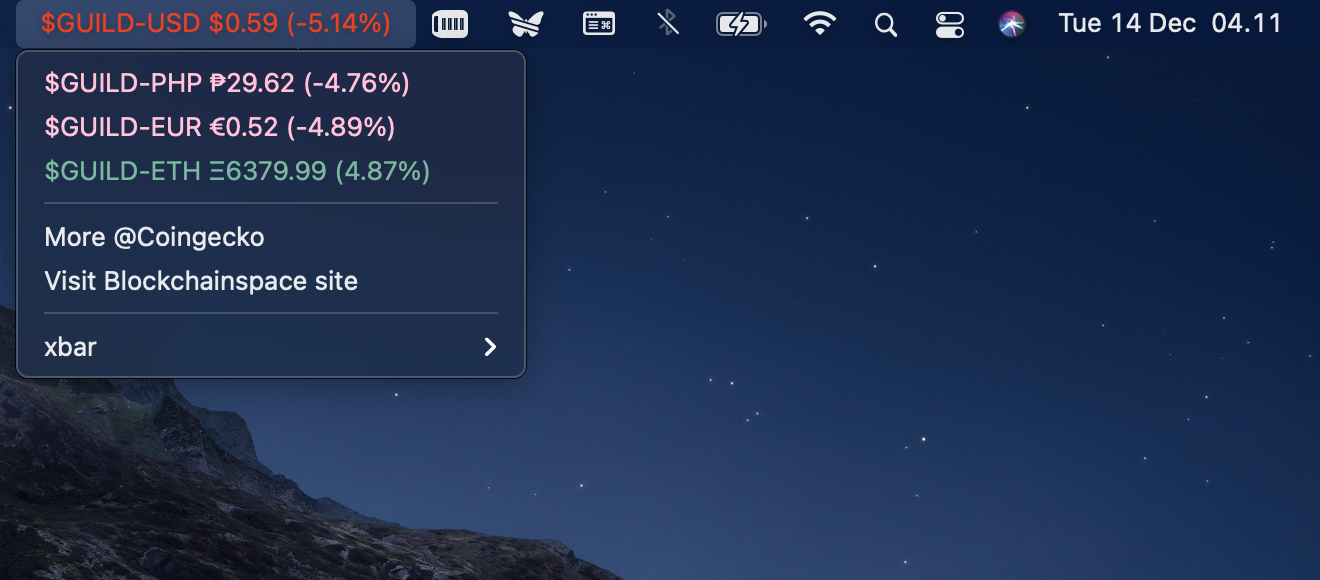
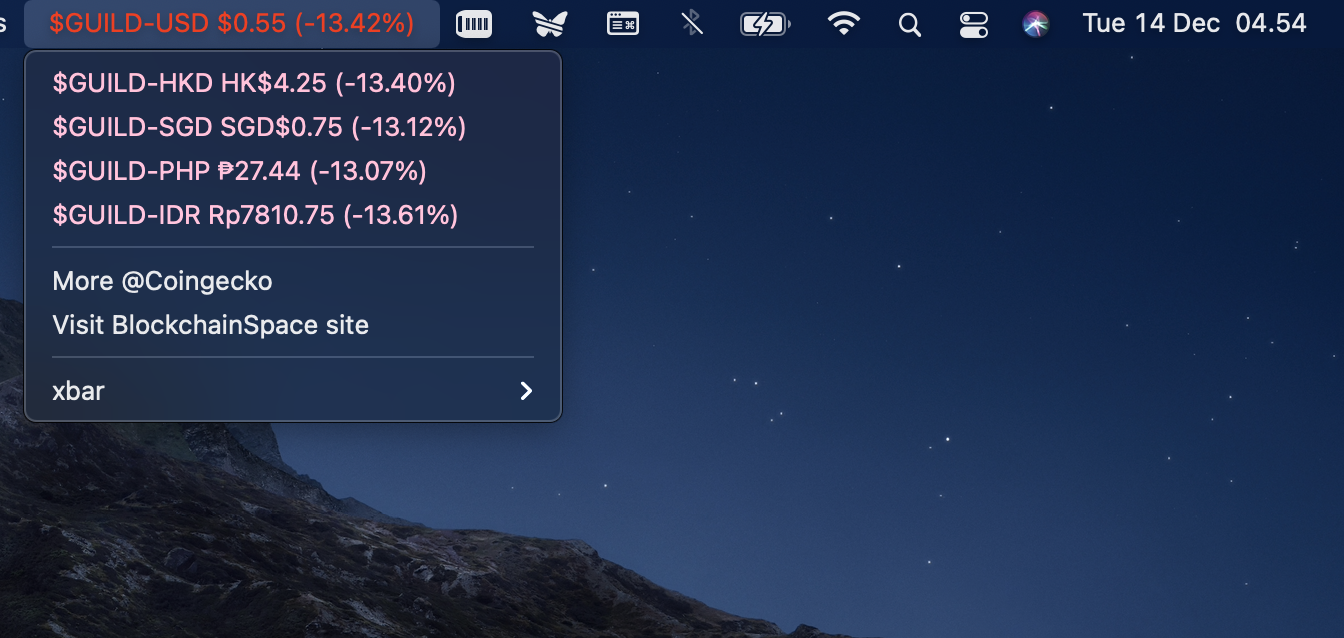
docs: update

Changed region(s): [[0.0, 0.0, 0.9939, 1.0], [0.3727, 0.3724, 0.4038, 0.4034]]

diff --git a/README.MD b/README.MD
@@ -18,7 +18,7 @@ src="https://github.com/BlockchainSpace-Dev/x-guild-price-tracker-plugin/blob/ma
    
 ## Features
 
-* [x] Currency support USD, PHP, EUR, ETH
+* [x] Currency support USD, PHP, EUR, HKD, SGD, IDR
 * [x] Link to coingecko and blockchainspace website
 
 ### Prerequisite
